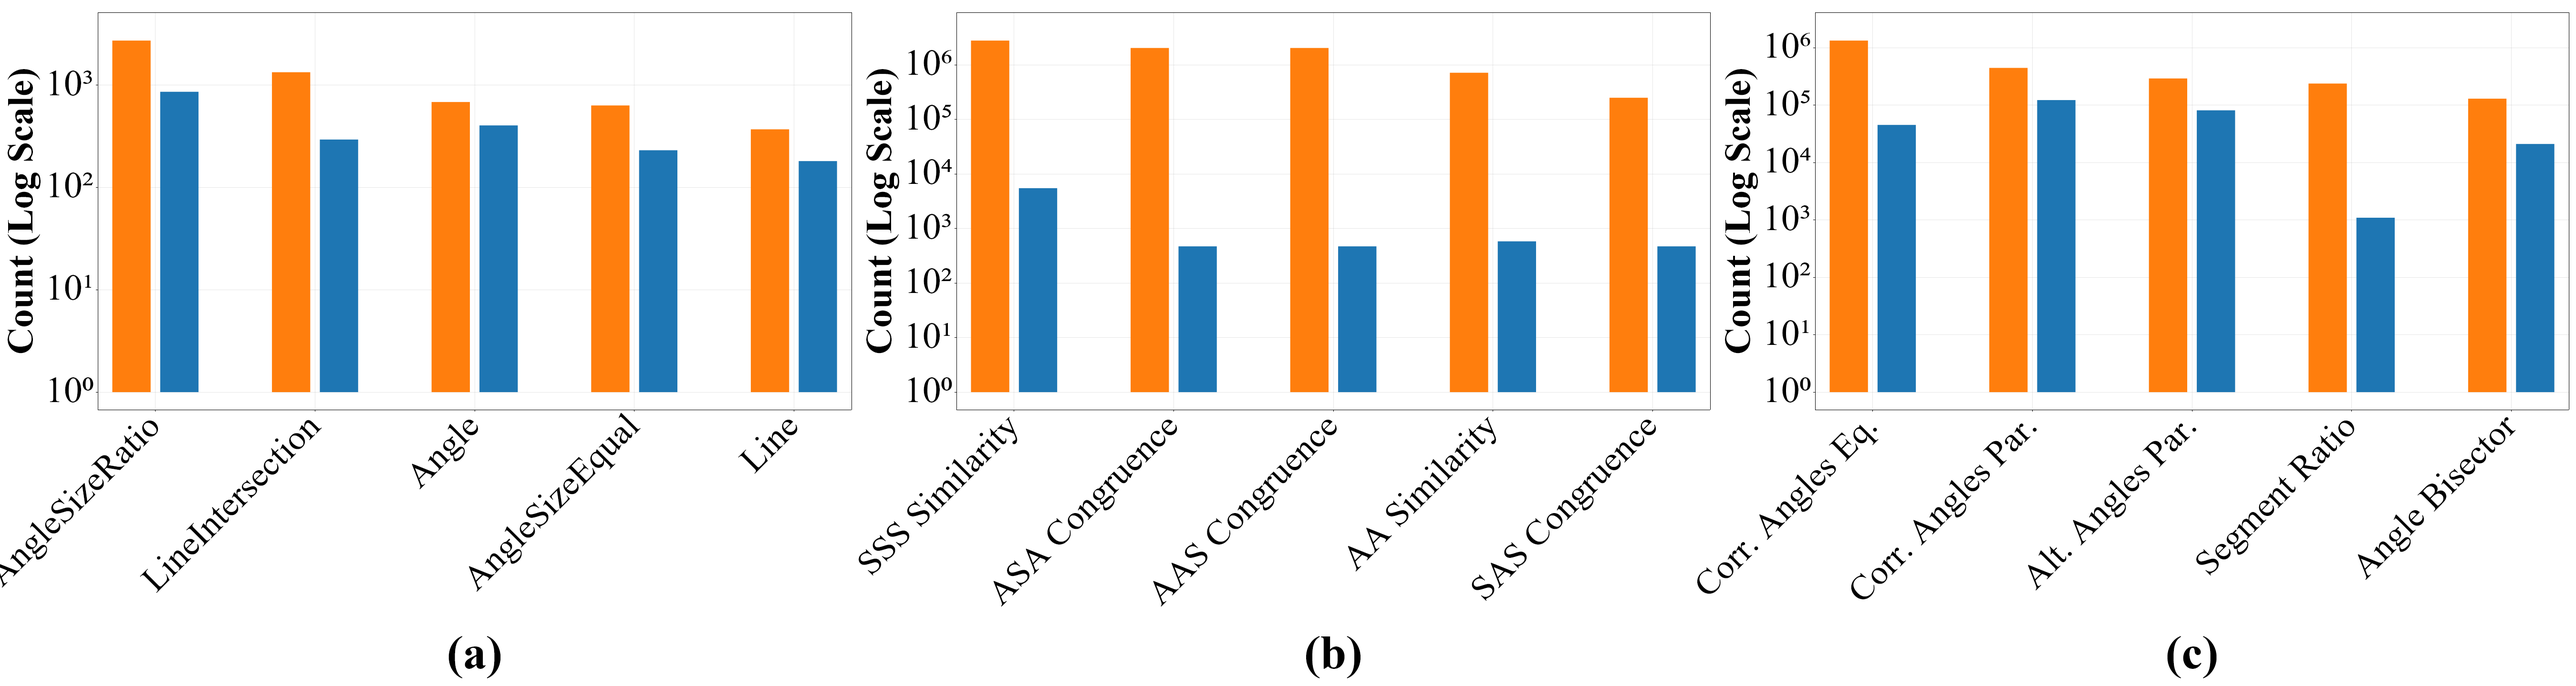
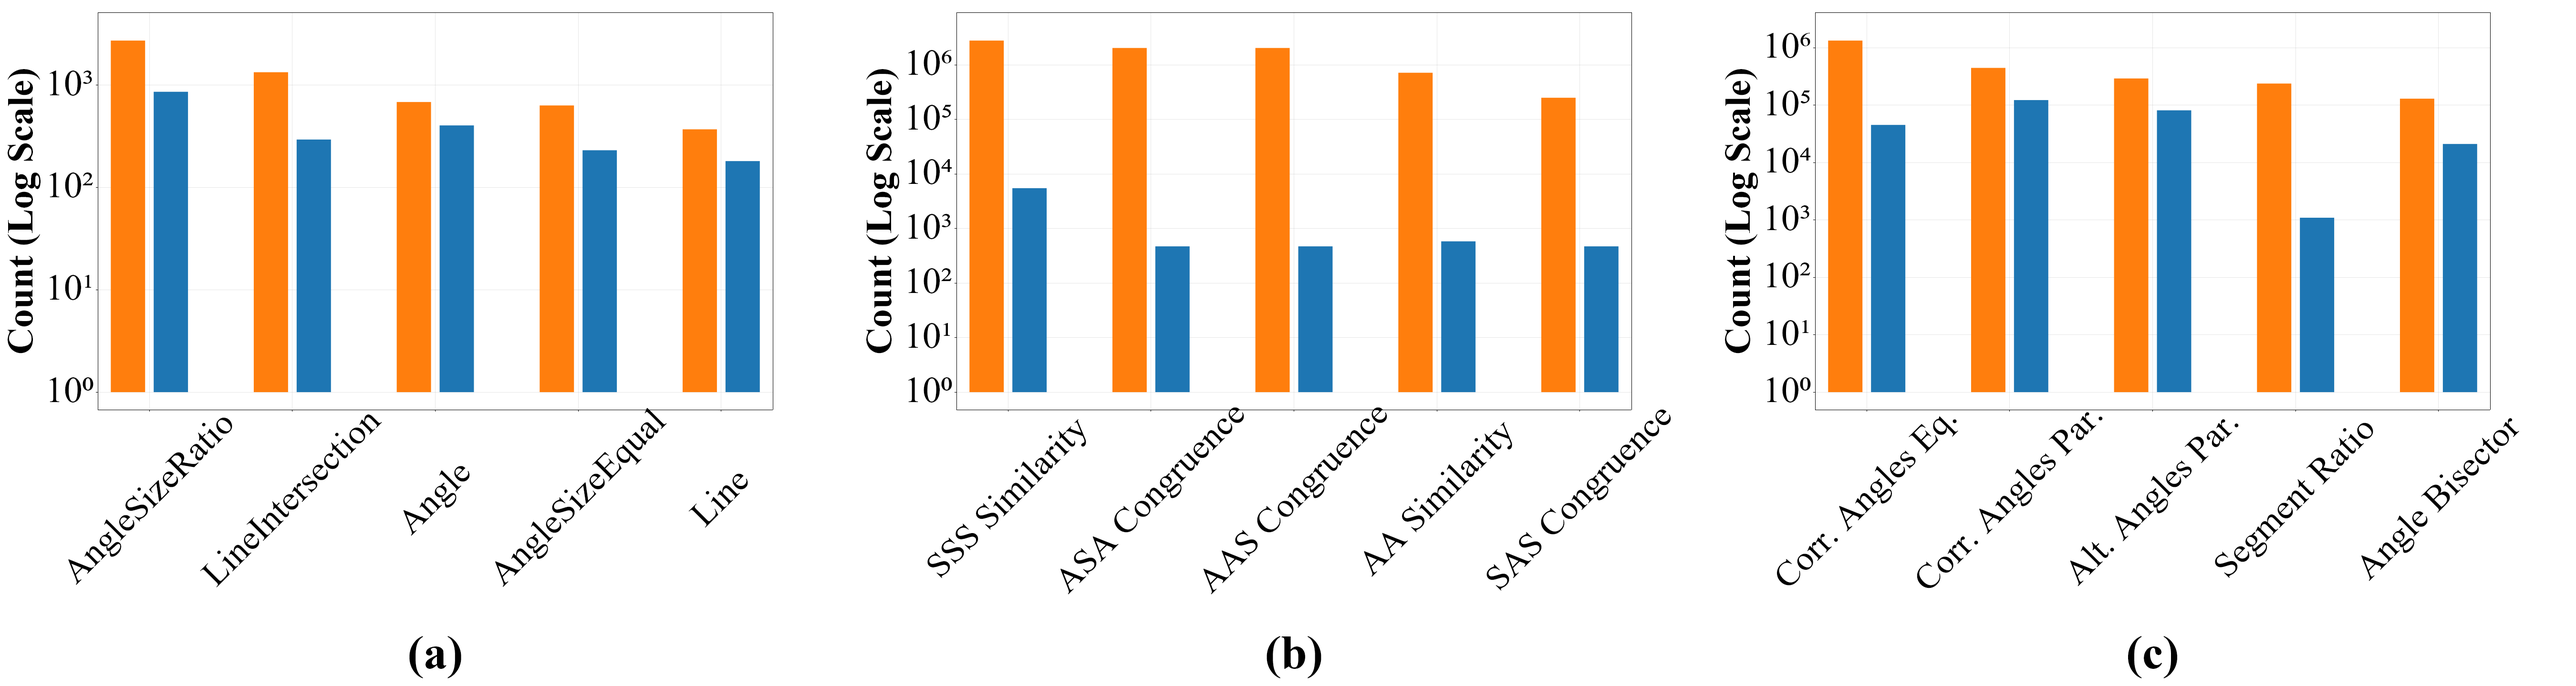
update figures

diff --git a/GeoInference.Tests/IntegratedResultReporter.cs b/GeoInference.Tests/IntegratedResultReporter.cs
@@ -1298,6 +1298,16 @@ internal class IntegratedResultReporter
             plot.Axes.Bottom.TickLabelStyle.FontSize = 50;
             plot.Axes.Left.Label.FontSize = 54;
 
+            if (fileName == "Solved-state")
+            {
+                string[] groupNames = CompressionRateGroupNames
+                    .Select(name => name == "Figure" ? "Object" : name)
+                    .ToArray();
+                plot.Axes.Bottom.SetTicks(
+                    Enumerable.Range(0, groupNames.Length).Select(i => (double)i).ToArray(),
+                    groupNames);
+            }
+
             // Tighten the spacing between subplots: remove the minimum axis sizes and
             // the outer label padding so adjacent subplots sit closer together.
             plot.Axes.Left.MinimumSize = 0;
@@ -1476,7 +1486,7 @@ internal class IntegratedResultReporter
         plot.Axes.Bottom.TickLabelStyle.Alignment = Alignment.MiddleRight;
 
         plot.Axes.Bottom.Label.FontSize = 44;
-        plot.Axes.Bottom.Label.Text = "Params Count";
+        plot.Axes.Bottom.Label.Text = "Number of Rule Parameters";
 
         /* ================================
          * Y axis Log10 display
@@ -1559,7 +1569,7 @@ internal class IntegratedResultReporter
         {
             legendItems.Add(new ScottPlot.LegendItem()
             {
-                LabelText = "Count \u2264 10⁷",
+                LabelText = "MRI \u2264 10⁷",
                 FillColor = barMainColor,
                 OutlineColor = barMainColor,
                 OutlineWidth = 1,
@@ -1573,7 +1583,7 @@ internal class IntegratedResultReporter
         // Orange highlight legend item
         legendItems.Add(new ScottPlot.LegendItem()
         {
-            LabelText = "Count > 10⁷",
+            LabelText = "MRI > 10⁷",
             FillColor = orangeHighlight,
             OutlineColor = orangeHighlight,
             OutlineWidth = 1,
@@ -1737,11 +1747,12 @@ internal class IntegratedResultReporter
 
         plot.Title(title);
         plot.Axes.Title.Label.FontSize = 0;
-        plot.Axes.Bottom.TickLabelStyle.Alignment = Alignment.MiddleRight;
+        plot.Axes.Bottom.TickLabelStyle.Alignment = Alignment.MiddleCenter;
         // Shift the rotated tick labels downward so they do not touch the axis frame
-        plot.Axes.Bottom.TickLabelStyle.OffsetY = 18;
+        plot.Axes.Bottom.TickLabelStyle.OffsetY = 180;
         // Reserve extra vertical space so the rotated tick labels do not overlap the (a)/(b)/(c) label below
         plot.Axes.Bottom.MinimumSize = 580;
+        plot.Axes.Right.MinimumSize = 180;
         SavePlot(plot, title + "_Log");
         return plot;
     }
